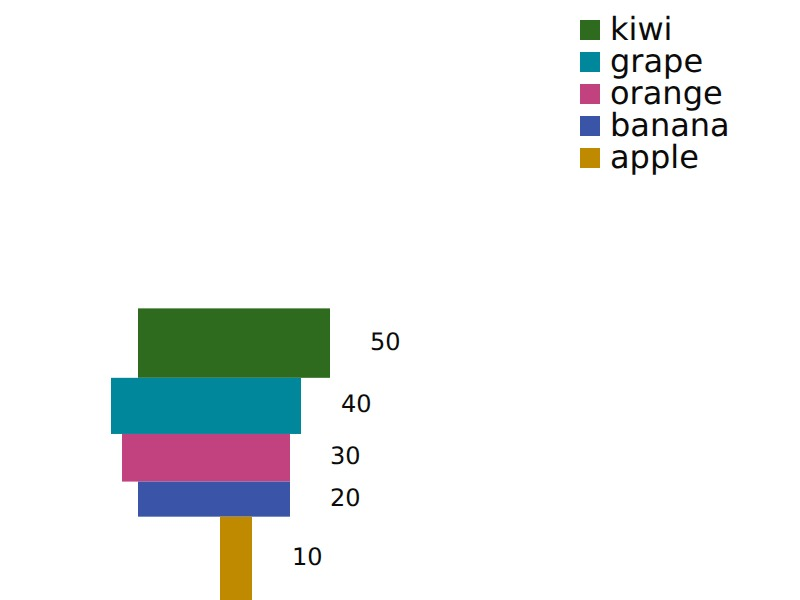
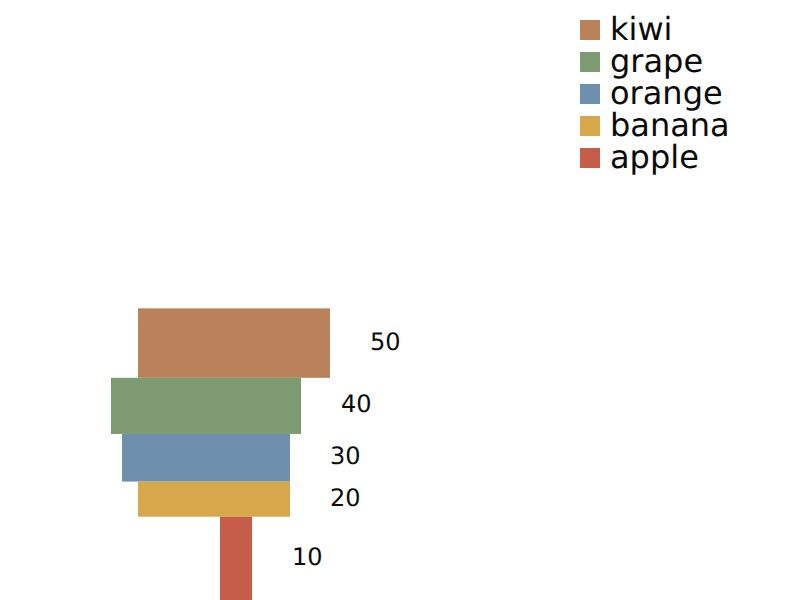
feat: use the Wooden Blocks palette by default
Replace the palette from the previous commit with the three sets you
supplied, defaulting to Wooden Blocks. The earlier one was picked to
clear the automated colour checks and ended up looking like a business
dashboard rather than a box of toy blocks, which is the wrong trade for
this library.

Ship Toy Classic and Retro Toy alongside it and export all three, so the
alternatives are usable rather than sitting unused in the source.
paletteColorAt now takes an optional palette.

Worth recording: none of the three clears the colour checks the previous
palette was built against. Wooden Blocks is the closest. Four of its six
hues are muted enough to read as grey by that measure, terracotta and
tan sit at ΔE 8.5 for normal vision (below the 15 floor), and tan beside
sage falls to 3.6 under deutan simulation. I tried tuning the set to
keep the wooden character while opening the pairs up, and could not get
both - separating the hues is what makes them stop looking like wood.

That is a legitimate trade for a chart whose point is how it looks, and
it is survivable here because identity does not rest on colour: the
legend, the value labels and the per-block tooltip all name the block.
The README now says so plainly instead of claiming the palette is
validated, and points readers at explicit fill values where two
categories must be told apart.

Regenerate the screenshots for the new default.

Claude-Session: https://claude.ai/code/session_013Nb7FnT4fhDPdRaNrTKbfF

Changed region(s): [[0.125, 0.51, 0.4375, 1.0], [0.7188, 0.03, 0.75, 0.3]]

diff --git a/src/shared/model/palette.ts b/src/shared/model/palette.ts
@@ -1,34 +1,53 @@
 /**
  * Fills used for data that does not carry its own `fill`.
  *
- * The order is part of the design, not cosmetic: it was chosen by validating
- * candidate orderings rather than by eye. Against a white surface every slot
- * sits inside the usable lightness band, clears the chroma floor so none reads
- * as gray, and reaches 3:1 contrast; the first five are separable from each
- * other in every pairing, including under simulated colour-vision deficiency.
+ * A colour is taken by the datum's position in the caller's `data` array, so it
+ * stays with that entry however the layout reorders the blocks, and colours
+ * start over once the data outgrows the palette.
  *
- * Past five, and for the worst pairing across all eight, separation leans on
- * the chart's other channels — the legend, the data labels and the per-block
- * tooltip — so identity never rests on colour alone. Charts with more than a
- * handful of categories are better served by passing explicit `fill` values.
+ * These are warm, muted sets chosen to match the toy-block look. That character
+ * comes at a cost worth knowing about: several of the hues sit close together,
+ * so colour alone does not reliably separate every pair — the legend, the value
+ * labels and the per-block tooltip are what carry identity. For charts with many
+ * categories, or where readers must tell two specific series apart, pass
+ * explicit `fill` values.
  */
-export const palette = [
-  "#C08A00",
-  "#3A54A8",
-  "#C2417F",
-  "#00879B",
-  "#2F6B1F",
-  "#D2622E",
-  "#7B3FA0",
-  "#C0392B",
+export const woodenBlocks = [
+  "#C65D4B",
+  "#D6A84B",
+  "#6F8FAF",
+  "#7D9A72",
+  "#B9825A",
+  "#8B728E",
 ] as const;
 
+export const toyClassic = [
+  "#D94B4B",
+  "#E9B949",
+  "#4B78C2",
+  "#5B9A68",
+  "#E27A3F",
+  "#8A67AB",
+] as const;
+
+export const retroToy = [
+  "#C04759",
+  "#3B6C73",
+  "#F1D87F",
+  "#72936B",
+  "#D9844A",
+  "#7A668A",
+] as const;
+
+/** The palette used when a datum has no `fill` of its own. */
+export const defaultPalette: readonly string[] = woodenBlocks;
+
 /**
- * The fill for the nth datum. Colours repeat once the data outgrows the
- * palette, so the index is the datum's position in the caller's `data` array:
- * a colour follows its entry, and does not move when the layout reorders the
- * blocks.
+ * The fill for the nth datum, repeating once the data outgrows the palette.
  */
-export function paletteColorAt(index: number): string {
+export function paletteColorAt(
+  index: number,
+  palette: readonly string[] = defaultPalette
+): string {
   return palette[index % palette.length];
 }

diff --git a/src/stacked-block-chart/stacked-block-chart.test.tsx b/src/stacked-block-chart/stacked-block-chart.test.tsx
@@ -6,7 +6,7 @@ import {
   type StackedBlockChartProps,
 } from "./stacked-block-chart";
 import type { StackedBlockDatum } from "./model/types";
-import { palette } from "../shared/model/palette";
+import { defaultPalette } from "../shared/model/palette";
 
 const data: StackedBlockDatum[] = [
   { value: 10, name: "apple" },
@@ -353,7 +353,7 @@ describe("StackedBlockChart colours", () => {
     expect(fills).toHaveLength(data.length);
     expect(new Set(fills).size).toBe(data.length);
     for (const fill of fills) {
-      expect(palette).toContain(fill);
+      expect(defaultPalette).toContain(fill);
     }
   });
 
@@ -367,7 +367,7 @@ describe("StackedBlockChart colours", () => {
 
     expect(fillsByName(container)).toEqual({
       apple: "#123456",
-      banana: palette[1],
+      banana: defaultPalette[1],
     });
   });
 
@@ -384,7 +384,7 @@ describe("StackedBlockChart colours", () => {
   });
 
   it("starts the palette over when the data outgrows it", () => {
-    const many = Array.from({ length: palette.length + 2 }, (_, i) => ({
+    const many = Array.from({ length: defaultPalette.length + 2 }, (_, i) => ({
       value: i + 1,
       name: `item-${i}`,
     }));
@@ -392,8 +392,8 @@ describe("StackedBlockChart colours", () => {
     const { container } = renderChart({ data: many });
     const fills = fillsByName(container);
 
-    expect(fills["item-0"]).toBe(palette[0]);
-    expect(fills[`item-${palette.length}`]).toBe(palette[0]);
-    expect(fills[`item-${palette.length + 1}`]).toBe(palette[1]);
+    expect(fills["item-0"]).toBe(defaultPalette[0]);
+    expect(fills[`item-${defaultPalette.length}`]).toBe(defaultPalette[0]);
+    expect(fills[`item-${defaultPalette.length + 1}`]).toBe(defaultPalette[1]);
   });
 });

diff --git a/src/shared/model/palette.test.ts b/src/shared/model/palette.test.ts
@@ -1,19 +1,45 @@
 import { describe, it, expect } from "vitest";
-import { palette, paletteColorAt } from "./palette";
+import {
+  defaultPalette,
+  paletteColorAt,
+  retroToy,
+  toyClassic,
+  woodenBlocks,
+} from "./palette";
 
 describe("paletteColorAt", () => {
   it("should return the colour for the given slot", () => {
-    palette.forEach((color, index) => {
+    defaultPalette.forEach((color, index) => {
       expect(paletteColorAt(index)).toBe(color);
     });
   });
 
   it("should start over once the data outgrows the palette", () => {
-    expect(paletteColorAt(palette.length)).toBe(palette[0]);
-    expect(paletteColorAt(palette.length + 3)).toBe(palette[3]);
+    expect(paletteColorAt(defaultPalette.length)).toBe(defaultPalette[0]);
+    expect(paletteColorAt(defaultPalette.length + 3)).toBe(defaultPalette[3]);
   });
 
-  it("should hold distinct colours", () => {
+  it("should use the given palette when one is passed", () => {
+    expect(paletteColorAt(0, toyClassic)).toBe(toyClassic[0]);
+    expect(paletteColorAt(toyClassic.length + 1, toyClassic)).toBe(
+      toyClassic[1]
+    );
+  });
+});
+
+describe("palettes", () => {
+  it("should default to Wooden Blocks", () => {
+    expect(defaultPalette).toEqual(woodenBlocks);
+  });
+
+  it.each([
+    ["woodenBlocks", woodenBlocks],
+    ["toyClassic", toyClassic],
+    ["retroToy", retroToy],
+  ])("%s holds distinct, well formed colours", (_name, palette) => {
     expect(new Set(palette).size).toBe(palette.length);
+    for (const color of palette) {
+      expect(color).toMatch(/^#[0-9A-F]{6}$/);
+    }
   });
 });

diff --git a/src/stacked-block-chart/model/compute-blocks.test.ts b/src/stacked-block-chart/model/compute-blocks.test.ts
@@ -13,7 +13,7 @@ import {
   filterDrawableData,
 } from "./compute-blocks";
 import type { StackedBlockDatum } from "./types";
-import { palette } from "../../shared/model/palette";
+import { defaultPalette } from "../../shared/model/palette";
 import { createSeededRandomInt } from "../../shared/model/random";
 
 describe("createInitialBlockDatum", () => {
@@ -69,7 +69,7 @@ describe("createInitialBlockDatum", () => {
       y: 0,
       width: 0,
       height: 0,
-      fill: palette[0],
+      fill: defaultPalette[0],
       percentage: 0,
     });
   });

diff --git a/src/index.ts b/src/index.ts
@@ -4,3 +4,10 @@ export {
   type StackedBlockDatum,
   type StackType,
 } from "./stacked-block-chart/stacked-block-chart";
+
+export {
+  defaultPalette,
+  retroToy,
+  toyClassic,
+  woodenBlocks,
+} from "./shared/model/palette";

diff --git a/README.md b/README.md
@@ -93,25 +93,38 @@ Because `role="img"` makes the chart a leaf in the accessibility tree, a screen
 reader announces the name and description but not the individual values — use
 `desc` to summarise the data, or present the numbers alongside the chart.
 
-### Default palette
+### Palettes
 
-Data without an explicit `fill` is coloured from this palette, by its position
-in the `data` array. A colour therefore stays with its entry no matter how the
-layout reorders the blocks.
+Data without an explicit `fill` is coloured from a palette, by its position in
+the `data` array. A colour therefore stays with its entry no matter how the
+layout reorders the blocks, and colours repeat once the data outgrows the
+palette.
 
-| Slot | Hex | Slot | Hex |
-| --- | --- | --- | --- |
-| 1 | `#C08A00` | 5 | `#2F6B1F` |
-| 2 | `#3A54A8` | 6 | `#D2622E` |
-| 3 | `#C2417F` | 7 | `#7B3FA0` |
-| 4 | `#00879B` | 8 | `#C0392B` |
+Three palettes ship with the library. **Wooden Blocks** is the default.
 
-The order was chosen by validating candidate orderings rather than by eye:
-against a white background every slot clears a contrast ratio of 3:1 and is
-saturated enough not to read as grey, and the first five stay distinguishable
-from one another in every pairing, including under simulated colour-vision
-deficiency. Colours repeat past the eighth entry, so charts with more categories
-than that are better served by explicit `fill` values.
+| Palette | Colours |
+| --- | --- |
+| `woodenBlocks` (default) | `#C65D4B` `#D6A84B` `#6F8FAF` `#7D9A72` `#B9825A` `#8B728E` |
+| `toyClassic` | `#D94B4B` `#E9B949` `#4B78C2` `#5B9A68` `#E27A3F` `#8A67AB` |
+| `retroToy` | `#C04759` `#3B6C73` `#F1D87F` `#72936B` `#D9844A` `#7A668A` |
+
+To use one of the others, map it over your data:
+
+```tsx
+import { StackedBlockChart, toyClassic } from "toy-block-charts";
+
+const data = [
+  { name: "apple", value: 10 },
+  { name: "banana", value: 20 },
+].map((datum, i) => ({ ...datum, fill: toyClassic[i % toyClassic.length] }));
+```
+
+These palettes are warm and muted to match the toy-block look. That character
+has a cost worth knowing: several hues in each set sit close together, so colour
+alone will not always separate one block from another — particularly for readers
+with a colour-vision deficiency. The legend, the value labels and the per-block
+tooltip are what carry identity, so keep at least one of them on. Where two
+specific categories must be told apart at a glance, set their `fill` explicitly.
 
 ### Stable Balanced
 
